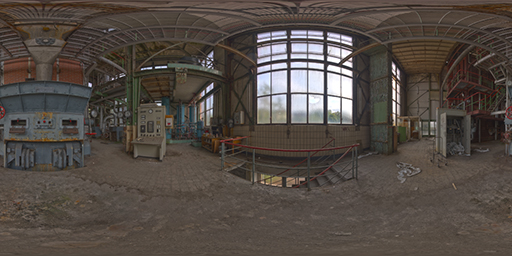
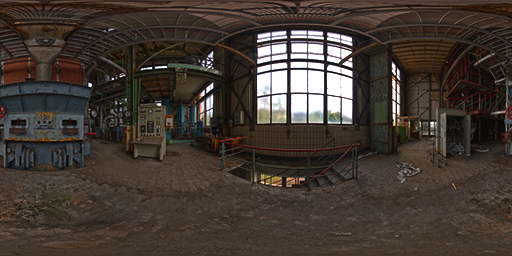
Add files via upload

diff --git a/index.html b/index.html
@@ -3,7 +3,7 @@
 <head>
     <meta charset="UTF-8">
     <meta name="viewport" content="width=device-width, initial-scale=1.0, user-scalable=no">
-    <title>Slot Pro: Final Lighting Mix</title>
+    <title>Slot Pro: Sun Boost</title>
     <style>
         body { margin: 0; overflow: hidden; background-color: #050505; font-family: 'Segoe UI', sans-serif; }
         
@@ -136,32 +136,30 @@
         renderer.setSize(window.innerWidth, window.innerHeight);
         renderer.setPixelRatio(window.devicePixelRatio); 
         
-        // SOMBRAS ACTIVADAS DE NUEVO
         renderer.shadowMap.enabled = true; 
         renderer.shadowMap.type = THREE.PCFSoftShadowMap; 
         
         renderer.toneMapping = THREE.ACESFilmicToneMapping;
-        renderer.toneMappingExposure = 1.0; // Balanceado (HDRI + Sol)
+        renderer.toneMappingExposure = 1.0; 
         
         document.body.appendChild(renderer.domElement);
 
         const effect = new StereoEffect(renderer);
-        effect.eyeSeparation = 0.005; // VR cómodo
+        effect.eyeSeparation = 0.005; // Ajuste fino para VR
         effect.setSize(window.innerWidth, window.innerHeight);
         
         let isVRMode = false;
 
         // =====================================================================
-        // LUCES (Mix Balanceado)
+        // LUCES (Más Sol)
         // =====================================================================
         
-        // 1. Luz Ambiente "Flojita"
+        // 1. Luz Ambiente (Mantenemos suave para contraste)
         const ambientLight = new THREE.AmbientLight(0xffffff, 0.3); 
         scene.add(ambientLight);
 
-        // 2. Luz de Sol (Sombras y Volumen)
-        // Intensidad moderada (0.8) para no quemar
-        const sunLight = new THREE.DirectionalLight(0xffffff, 0.8); 
+        // 2. Luz de Sol (Aumentada a 1.6)
+        const sunLight = new THREE.DirectionalLight(0xffffff, 1.6); 
         sunLight.position.set(-15, 25, 40); 
         sunLight.castShadow = true;
         
@@ -191,7 +189,7 @@
                 const envMap = pmremGenerator.fromEquirectangular(cubemapTexture).texture;
                 
                 scene.environment = envMap; 
-                scene.background = envMap; // Fondo visible (opcional)
+                scene.background = envMap; 
                 
                 cubemapTexture.dispose();
                 pmremGenerator.dispose();
@@ -218,12 +216,11 @@
             }
         }
 
-        // --- MODEL SETUP (Materiales Originales + Sombras) ---
+        // --- MODEL SETUP (Materiales Originales) ---
         function setupModel(node) {
             if (node.isMesh) {
                 node.receiveShadow = true;
                 node.castShadow = true;
-                
                 if (node.material && node.material.map) {
                     node.material.map.colorSpace = THREE.SRGBColorSpace;
                 }
